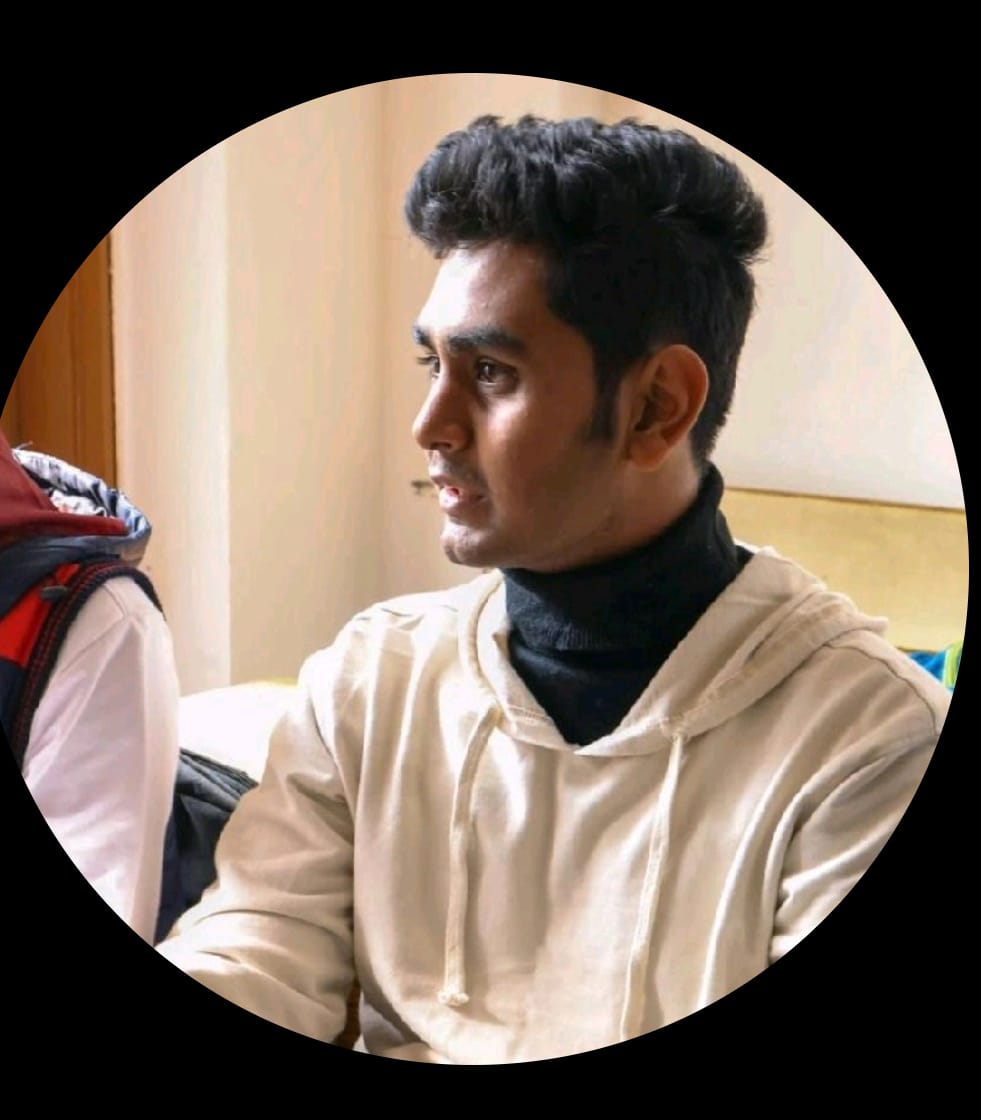
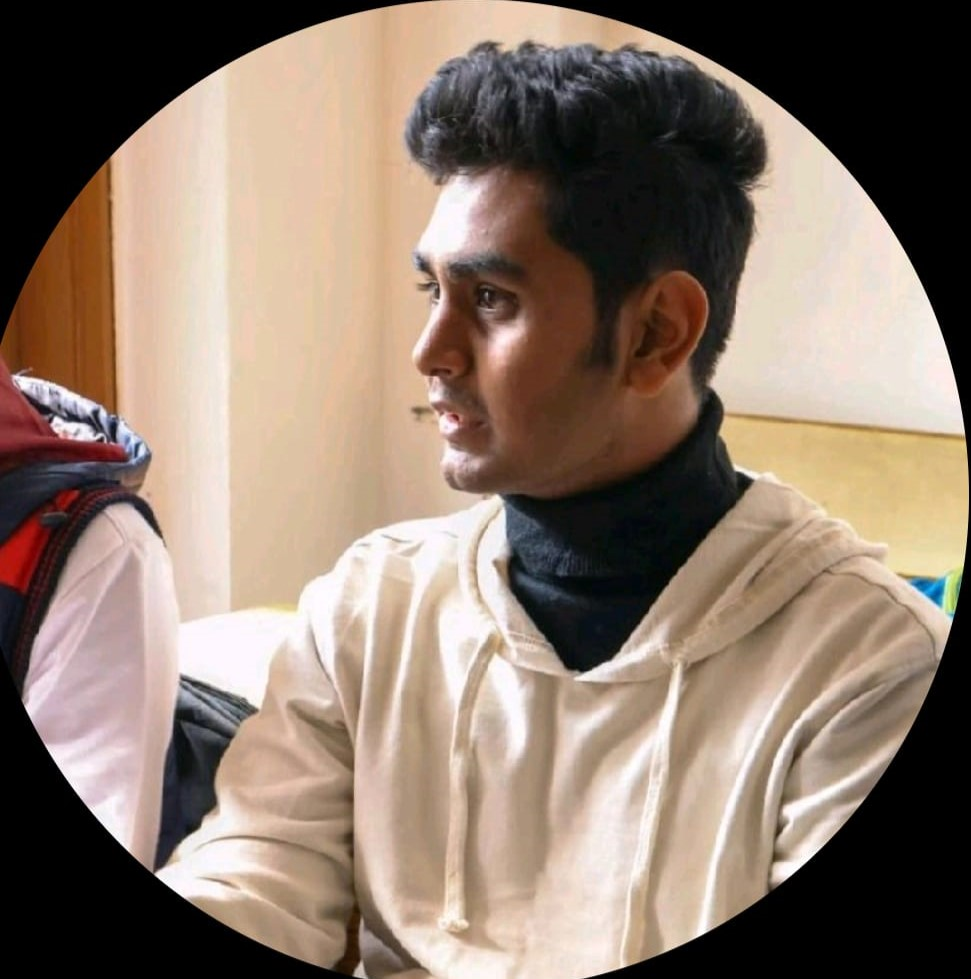
mentors json updated

diff --git a/js/mentors.js b/js/mentors.js
@@ -73,6 +73,15 @@ const mentors = [
       insta: "",
     },
   },
+  {
+    name: "Akshay Kumar Sharma",
+    image: "images/mentors/akshay.jpg",
+    description: "",
+    social: {
+      linkedin: "https://www.linkedin.com/in/akshay-kumar-sharma-devvoyager",
+      insta: "",
+    },
+  },
 ];
 
 // Get the container element
